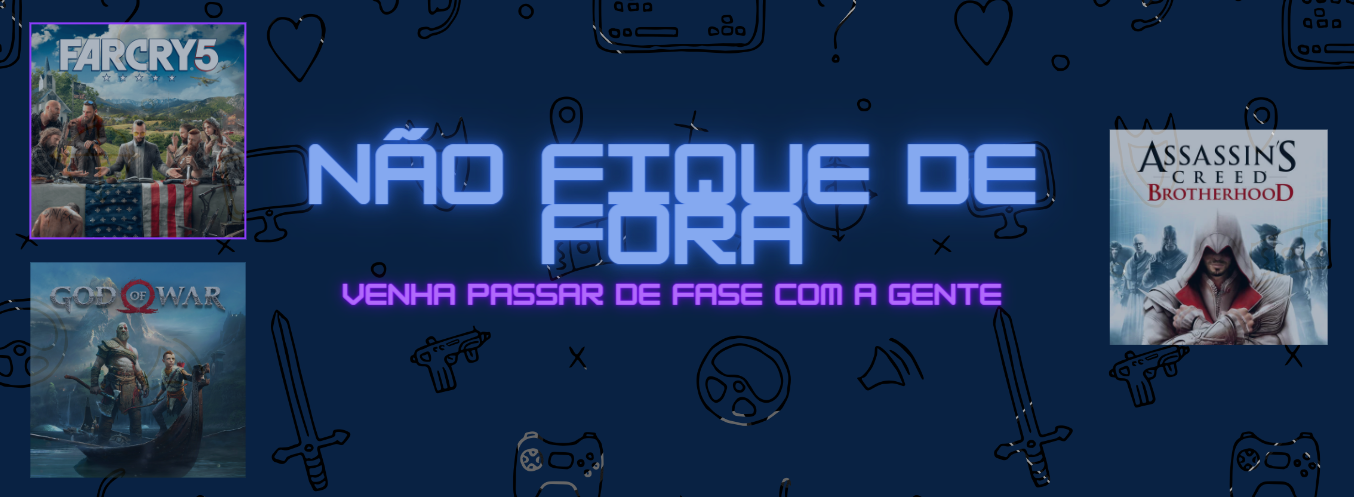
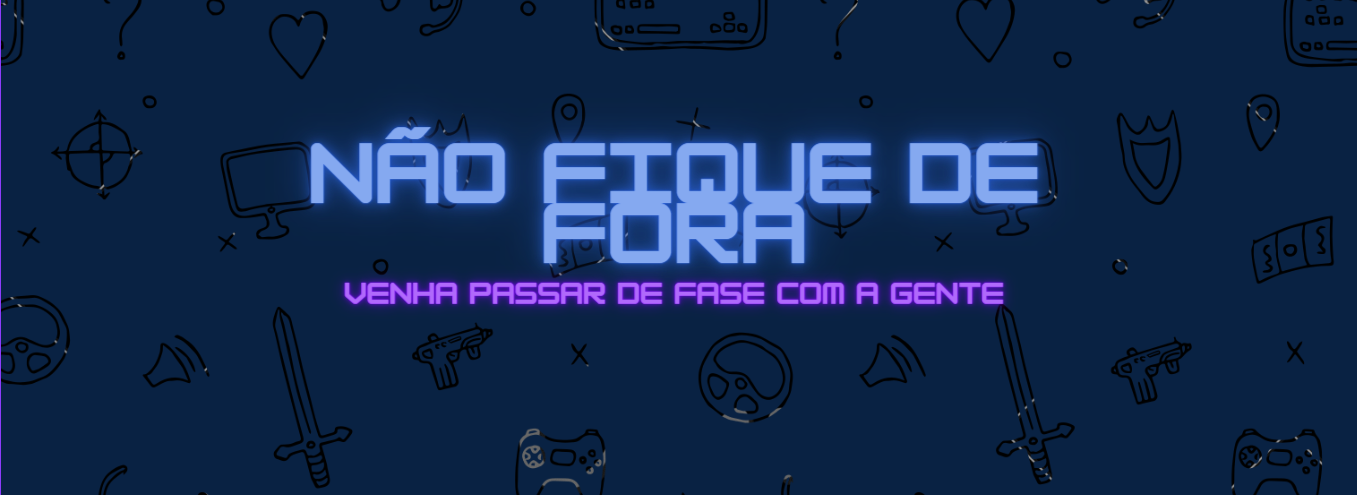
add imagens

diff --git a/index.html b/index.html
@@ -161,8 +161,8 @@
                                 </div>
                             </li>
                         
-                        <li class="nav-item"><a href="#" class="nav-link">Noticias</a></li>
                         <li class="nav-item"><a href="#" class="nav-link">Comunidade</a></li>
+                        <li class="nav-item"><a href="#" class="nav-link">Lista de Desejos</a></li>
                     </ul>
                 </div>
                 <input type="search" class="form-control ml-lg-5 mr-2" placeholder="Buscar...">
@@ -172,6 +172,11 @@
 
     <section class="banner">
         <img src="img/tamplate.png" alt="">
+    </section>
+    <section>
+        <article>
+            <img src="img/" alt="">
+        </article>
     </section>
 
     

diff --git a/css/custom.css b/css/custom.css
@@ -1,11 +1,12 @@
 :root{
     --primary: #011D20;
-    --secundary: #340300;
+    --secundary: ;
     --white-trasparent: rgba(255, 255, 255, 0.582);
 }
 html, body{
     margin: 0;
-    padding: 0;
+    padding: 0; 
+    background-color: var(--primary);
 
 }
 .container{
@@ -21,7 +22,7 @@ header .logo svg{
     display:flex;
 }
 #navbarsite{
-    margin-left: 50px;
+    margin-left: 30px;
 }
 .navbar-nav .nav-item .nav-link{
     color: var(--white-trasparent);
@@ -34,5 +35,5 @@ header .logo svg{
 }
 .banner img{
     width: 100%;
-    height: 320px;
+    height: 470px;
 }
